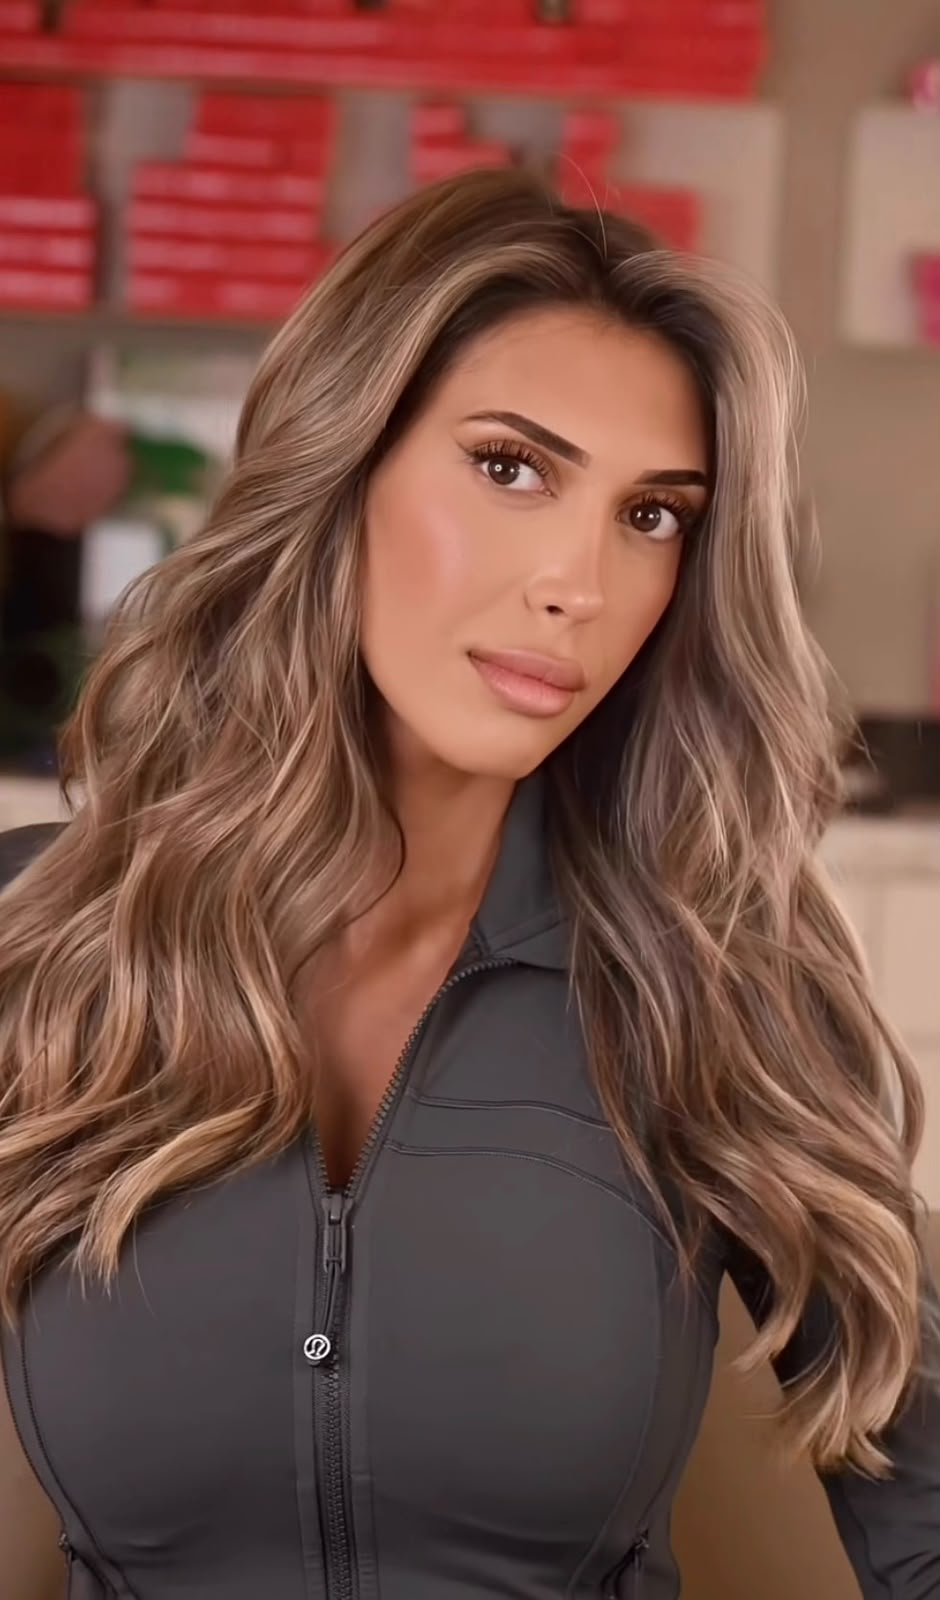
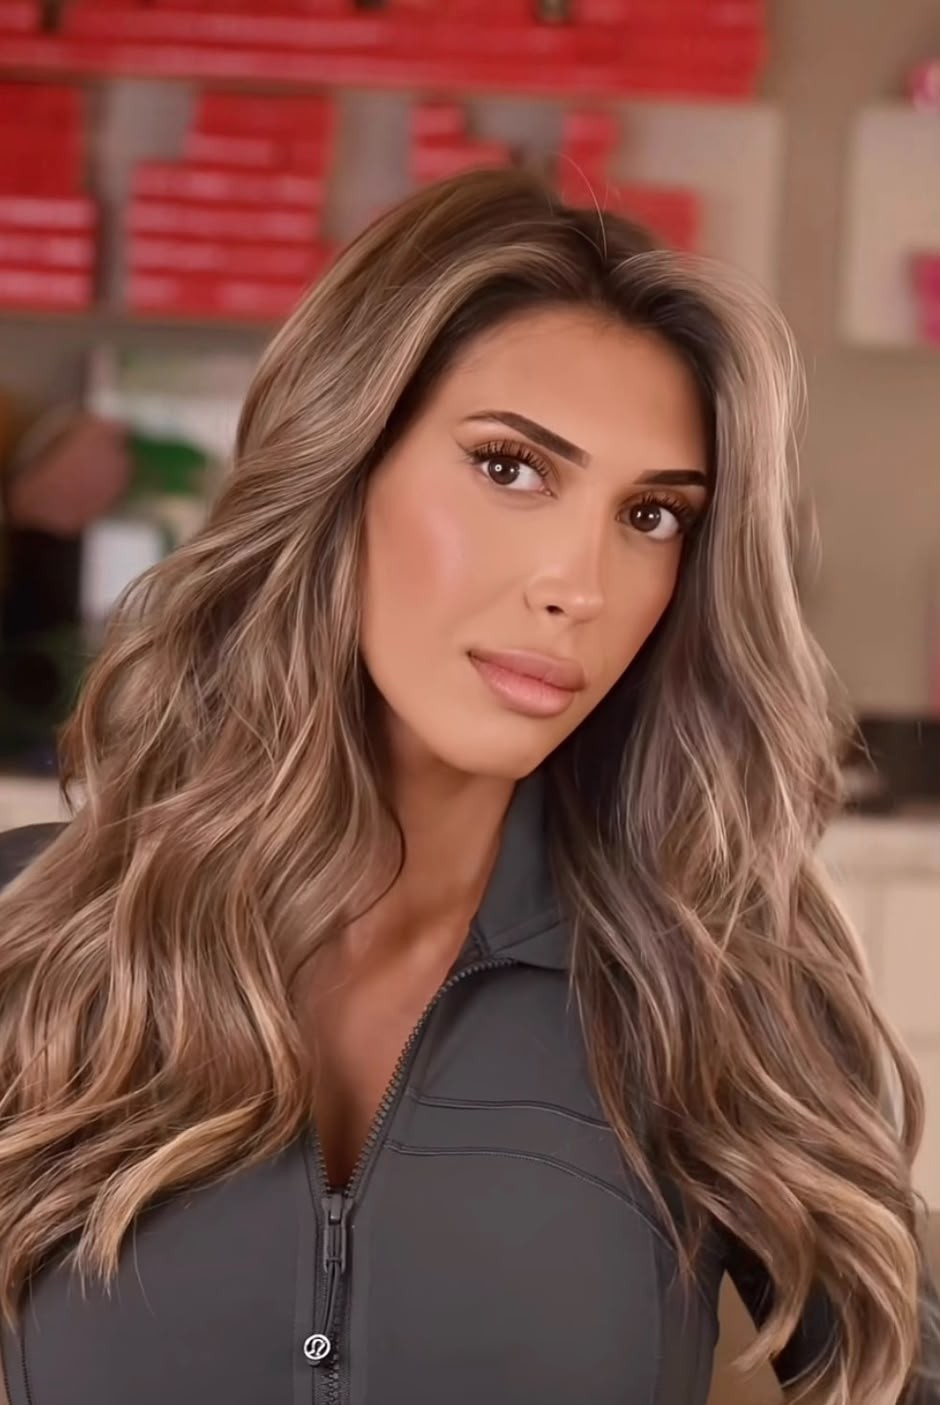
Search and category share a row on a phone
flex-basis:100% on the search box pushed the category dropdown onto its own
line below 480px, spending a whole row of a phone screen on a control that
fits beside it perfectly well.

They share the row at every width now: the search takes what is left, the
dropdown holds enough width to stay readable, and its label truncates
rather than wrapping the button to two lines. The menu opens right-aligned
so it stays on screen.

Checked at 360, 390, 430 and 768: same row everywhere, no page overflow,
and the open menu sits inside the viewport with its category photos.

diff --git a/css/booking.css b/css/booking.css
@@ -455,11 +455,25 @@
 }
 .custom-select-option:hover { background: var(--blush); }
 .custom-select-option.active { background: var(--taupe); color: #fff; }
+/* ── SEARCH AND CATEGORY, SIDE BY SIDE AT EVERY WIDTH ──
+   flex-basis:100% on the search used to push the dropdown onto its own line
+   below 480px, which cost a whole row of a phone screen to a control that
+   fits perfectly well beside it. They share the row now: the search takes
+   what is left, the dropdown keeps enough width to stay readable, and its
+   label truncates rather than wrapping the button to two lines. */
 @media (max-width: 480px) {
-  .service-filter-bar { flex-wrap: wrap; }
-  .service-search-wrap { flex-basis: 100%; }
-  .custom-select { flex: 1; max-width: none; }
-  .custom-select-menu { left: 0; right: 0; min-width: 0; }
+  .service-filter-bar { flex-wrap: nowrap; gap: 0.45rem; }
+  .service-search-wrap { flex: 1 1 auto; min-width: 0; padding: 0.62rem 0.8rem; }
+  .service-search-wrap input { font-size: 0.78rem; }
+  .custom-select { flex: 0 0 auto; width: 42%; max-width: 10.5rem; }
+  .custom-select-trigger { padding: 0.62rem 0.75rem; gap: 0.35rem; }
+  .custom-select-current {
+    overflow: hidden;
+    text-overflow: ellipsis;
+    white-space: nowrap;
+    min-width: 0;
+  }
+  .custom-select-menu { left: auto; right: 0; min-width: 13rem; }
 }
 
 /* Date + time */
